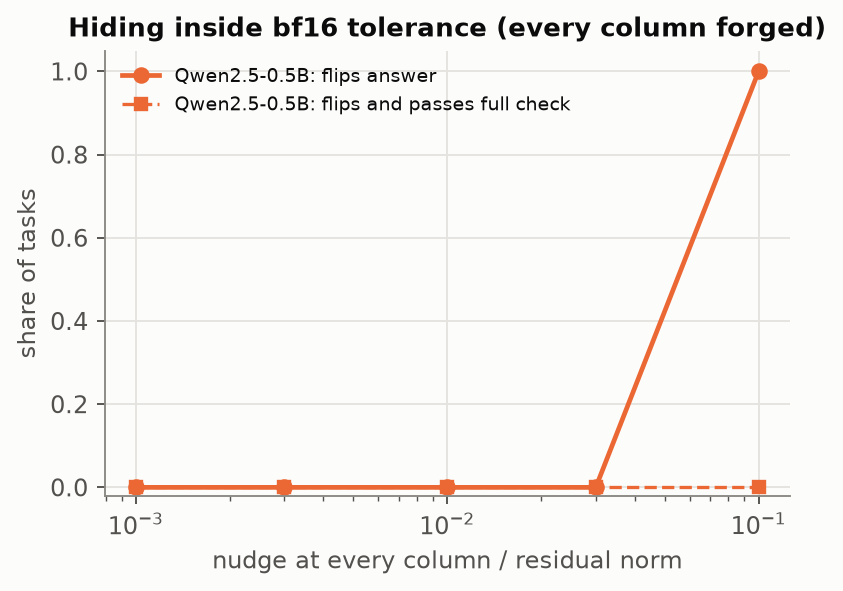
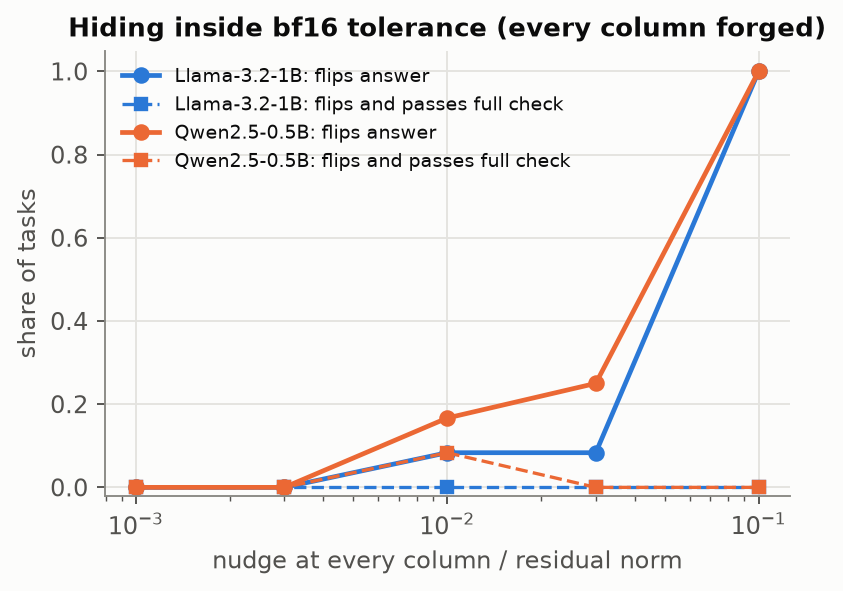
Regenerate figures, demo data and paper from complete results

Changed region(s): [[0.1234, 0.0914, 0.6785, 0.3046], [0.3393, 0.1523, 0.8944, 0.8528]]

diff --git a/docs/paper.html b/docs/paper.html
@@ -1,0 +1,91 @@
+<!doctype html><html lang="en"><head><meta charset="utf-8"><meta name="viewport" content="width=device-width,initial-scale=1">
+<title>kv-notary: Checking KV Caches Against Their Tokens</title><style>
+body{font:15.5px/1.6 Georgia,'Times New Roman',serif;color:#1d1d1b;background:#fff;max-width:820px;margin:40px auto;padding:0 24px}
+h1{font:600 30px/1.2 system-ui,sans-serif;margin:0 0 6px}h2{font:600 20px system-ui,sans-serif;margin:34px 0 8px}
+h3{font:600 16px system-ui,sans-serif;margin:22px 0 6px}.sub{color:#555;font:14px system-ui,sans-serif;margin-bottom:22px}
+.abs{background:#f6f6f3;border-left:3px solid #2a78d6;padding:12px 16px;margin:18px 0}
+table{border-collapse:collapse;margin:14px 0 4px;font:13px system-ui,sans-serif;width:100%}
+th,td{border-bottom:1px solid #ddd;padding:4px 6px;text-align:left;vertical-align:top}th{border-bottom:2px solid #999}
+table.small{font-size:11.5px}.cap{font:12.5px system-ui,sans-serif;color:#555;margin-top:2px}
+figure{margin:18px 0}figure img{width:100%}figcaption{font:12.5px system-ui,sans-serif;color:#555}
+code{font-size:13px}.refs{font-size:13.5px}
+@media print{body{margin:0 auto;font-size:11pt}h2{break-after:avoid}figure,table{break-inside:avoid}}
+</style></head><body>
+<h1>Can you trust a KV cache you did not compute?</h1>
+<div class="sub">kv-notary · forging, and auditing, transformer KV caches column by column · <a href="https://github.com/PS12007/kv-notary">github.com/PS12007/kv-notary</a> · <a href="index.html">interactive demo</a></div>
+<div class='abs'><b>Abstract.</b> Disaggregated serving, prefix caches and KV stores pass a transformer's KV cache between machines, and the reader trusts it. We show that this trust is easy to abuse and cheap to check. Forging a single column of the cache (one token's keys and values, computed from a nudged residual stream) makes Llama-3.2-1B give the attacker's answer in 86% of attempts, from any layer and almost any token position. Yet every cache is a deterministic function of its tokens, and each column can be recomputed against the claimed cache for the cost of one token. In 99.8% of successful forgeries this flags exactly the forged column, and no honest cache was flagged. Choosing columns by the question's value-weighted attention catches 91% of forgeries with 8 columns (Qwen2.5-0.5B: 77%), against 15% for 64 random columns, and 100% with 32 columns at 2044 tokens. Attacks that try to hide inside the bf16 tolerance either fail or leave several columns failing, where random audits find them. A white-box attacker that knows the scoring rule can push its column down the ranking, so against adaptive adversaries only random audits give guarantees. Code, data and an interactive demo are public.</div>
+<!-- included into paper.html by experiments/paper.py -->
+<h2>1. Introduction</h2>
+<p>A transformer's KV cache is a deterministic function of its tokens. Serving systems have started to treat it as data that moves. Disaggregated inference runs prefill on one pool of GPUs and ships the cache to another for decoding (DistServe, Splitwise, Mooncake). Prefix caches reuse one document's cache across users and requests (vLLM, SGLang). Cache stores such as LMCache persist caches to CPU memory, disk and remote storage, and resume sessions from them. In every one of these paths, the node that finally reads the cache trusts that it encodes the tokens it arrived with. Nothing checks.</p>
+<p>That trust is worth testing, because the cache is far larger than the text and far less legible. A 450-token memo is 14&nbsp;MiB of bf16 keys and values in Llama-3.2-1B. Any of it can be changed without changing a single token of the prompt, and no log, prompt filter or human reviewer would see the difference. This report asks three questions on two small open models:</p>
+<ol>
+<li><b>How little of a cache must change to change an answer?</b> One column, at any depth (§4).</li>
+<li><b>Can the reader check a cache without recomputing it?</b> Yes. Recomputing a column against the <i>claimed</i> cache costs one token through the model, and a cache is honest if and only if every column passes (§3). Auditing the columns the question reads most catches non-adaptive forgeries with a few columns (§5).</li>
+<li><b>Where does the check break?</b> Against a white-box attacker who knows how audit columns are chosen (§6). It does not break inside the bf16 tolerance (§7).</li>
+</ol>
+
+<h2>2. Threat model</h2>
+<p>A <b>trusted node</b> holds the token ids of a document (a few bytes per token) and receives the document's KV cache from somewhere else. It then appends a question, decodes an answer, and returns it. The adversary controls the cache, and nothing else. We consider four adversaries:</p>
+<table>
+<tr><th>Adversary</th><th>Realistic as</th><th>What it can do</th></tr>
+<tr><td>Bit flip</td><td>silent data corruption in HBM, host RAM, NVMe, network</td><td>one random bit of one bf16 element</td></tr>
+<tr><td>In-place edit</td><td>write access to a cache store or the wire</td><td>arbitrary changes to stored K/V; nothing downstream is recomputed</td></tr>
+<tr><td>Consistent forger</td><td>a compromised or dishonest prefill worker</td><td>perturbs the residual stream of chosen columns <i>during</i> prefill and computes everything else honestly</td></tr>
+<tr><td>Adaptive forger</td><td>the same, white-box, knows the audit rule</td><td>also optimises to keep its columns out of the audit</td></tr>
+</table>
+<p>The attacker's goal is targeted: make the trusted node answer a specific wrong value (another city, project, colour or 4-digit code) for a question it anticipates. Cryptographic MACs on caches stop the first two adversaries and do nothing about the last two, because a dishonest prefill worker would sign whatever it computed.</p>
+
+<h2>3. Method</h2>
+<h3>3.1 Column recomputation</h3>
+<p>Write the claimed cache as columns <i>c</i><sub>0</sub>…<i>c</i><sub>T−1</sub>, where column <i>p</i> holds the post-RoPE keys and the values of token <i>p</i> at every layer. In an honest cache, <i>c<sub>p</sub></i> = <i>f</i>(<i>x<sub>p</sub></i>, <i>c</i><sub>&lt;p</sub>): the model's computation for token <i>x<sub>p</sub></i> at position <i>p</i>, attending to the earlier columns. The verifier evaluates exactly this <i>f</i>, using the claimed <i>c</i><sub>&lt;p</sub> as context. At layer <i>l</i>, the recomputed query of token <i>p</i> attends to the claimed keys and values of positions &lt;&nbsp;<i>p</i> plus its own recomputed entry, so the cost is one token through the model plus one attention read of the cache. Any set of columns batches into one pass.</p>
+<p><b>Soundness by induction.</b> If every column passes, then <i>c</i><sub>0</sub> is honest (it depends on <i>x</i><sub>0</sub> alone). If <i>c</i><sub>&lt;p</sub> is honest and <i>c<sub>p</sub></i> = <i>f</i>(<i>x<sub>p</sub></i>, <i>c</i><sub>&lt;p</sub>), so is <i>c<sub>p</sub></i>. So every tampered cache contains at least one failing column. The audit's job is to find one.</p>
+<p><b>Two kinds of tampering look different.</b> An in-place edit to column <i>j</i> at layer <i>l</i> also makes every later column that reads <i>j</i> above layer <i>l</i> disagree with its own recomputation, so it fails in many places. A consistent forger recomputes everything downstream of its change, so <i>only the forged columns fail</i>. That makes it the hard case.</p>
+<h3>3.2 Tolerance</h3>
+<p>In fp32, recomputed columns match the prefill to ~10<sup>−6</sup> relative error. In bf16 they do not: the prefill's batched kernels and the verifier's single-column computation round differently. The verifier therefore compares the per-layer relative error ‖<i>ĉ</i> − <i>c</i>‖/‖<i>c</i>‖ (K and V, all heads) to a threshold τ<sub>l</sub>, set to 1.5× the largest honest error seen on 20 calibration documents. A column's score is max<sub>l</sub> error<sub>l</sub>/τ<sub>l</sub>, and it fails above 1.</p>
+<h3>3.3 Choosing columns</h3>
+<p>Uniform sampling of <i>k</i> columns finds a single forged column with probability <i>k/T</i>. The verifier can do better because a forged column only matters if the question <i>reads</i> it, and the trusted node computes those attention weights anyway while it processes the question. Pre-norm transformers produce value vectors of bounded norm, so <i>a<sub>l,h,r,j</sub></i>·‖<i>v<sub>l,j</sub></i>‖ bounds what column <i>j</i> can add to reader <i>r</i> through head <i>h</i> at layer <i>l</i>. We score each column by this value-weighted attention, take the max over heads and sum over the reader tokens (question plus the decoded answer), and then either average over layers (<i>mean</i>) or normalise per layer and take the max (<i>layermax</i>). The audit always checks the first four columns (attention sinks), then the top-ranked columns, then optionally some uniformly random ones. We also test a gradient score, |∂NLL/∂<i>K</i>·<i>K</i>| + |∂NLL/∂<i>V</i>·<i>V</i>|, and an ensemble that takes the union of the top columns under all three.</p>
+<h3>3.4 Attacks</h3>
+<p>All attacks optimise the teacher-forced likelihood of the target answer with Adam, through the trusted node's question pass. The <b>forger</b> adds a vector δ to the residual stream entering layer <i>l</i> at the chosen positions, with ‖δ‖ ≤ β‖<i>h</i>‖, and backpropagates through the entire prefill, so the forged cache is consistent by construction. The <b>editor</b> optimises additive changes to stored K/V directly. The <b>adaptive forger</b> also pays a hinge penalty whenever a forged column's score is above 0.7× the score of the <i>k</i>-th ranked other column, computed with a differentiable copy of the audit score on the forged cache.</p>
+<h3>3.5 Setup</h3>
+<p>Models: Llama-3.2-1B-Instruct (16 layers, 8 KV heads) and Qwen2.5-0.5B-Instruct (24 layers, 2 KV heads), bf16, run by our own ~280-line implementation whose logits match <code>transformers</code> to 10<sup>−4</sup> in fp32 (tested in CI on random tiny models). Documents: generated memos of about 450 tokens with ten facts in filler prose. We also use long versions with the facts scattered through Moby-Dick (about 2K tokens). We keep only tasks the model answers correctly from an honest cache, and set the target to the honest output with the value swapped. One RTX 5060 Laptop GPU (8 GB).</p>
+
+<h2>4. One column is enough</h2><p>We forge one column, at one of five depths and three kinds of position: the last token of the fact's value, a uniformly random non-sink token, and the last document token. The forger may change the residual stream there by up to β times its norm. It then runs the rest of the prefill honestly. Over 24 memos per model (mean length 446 and 429 tokens) and 576 attacks per model, 446 of the Llama forgeries and 434 of the Qwen forgeries made the trusted node answer exactly the attacker's value. At β&nbsp;=&nbsp;1, the success rate across all layers and positions is 86% for Llama and 80% for Qwen. Position barely matters: a forged column on an unrelated token, far from the fact, works about as well as one on the fact itself. The attack does not need to edit the fact. It needs one place the question reads.</p><p>The full column check confirms the structure from §3.1. In 99.8% (Llama) and 98.6% (Qwen) of successful forgeries, the forged column is the <i>only</i> column that fails. The few exceptions are forgeries that also change later columns enough to show. No honest cache failed a single column: the largest honest score over all 48 evaluation memos was 0.79 for Llama and 0.98 for Qwen, against a threshold of 1. These memos are disjoint from the 20 calibration memos.</p><figure><img src="figures/forge_success.png" alt="forge_success"><figcaption>Figure 1. Success rate of single-column forgeries (β = 1) by layer and position kind, with 95% Wilson intervals.</figcaption></figure><figure><img src="figures/forge_budget.png" alt="forge_budget"><figcaption>Figure 2. Success against the perturbation budget β at the middle layer.</figcaption></figure><table class=""><tr><th>model</th><th>layer</th><th>β</th><th>success</th><th>value pos.</th><th>random pos.</th><th>last pos.</th><th>only forged col. fails</th></tr><tr><td>Llama-3.2-1B</td><td>1</td><td>1</td><td>60/72</td><td>96%</td><td>75%</td><td>79%</td><td>98%</td></tr><tr><td>Llama-3.2-1B</td><td>4</td><td>1</td><td>60/72</td><td>92%</td><td>88%</td><td>71%</td><td>100%</td></tr><tr><td>Llama-3.2-1B</td><td>8</td><td>0.25</td><td>12/72</td><td>29%</td><td>8%</td><td>12%</td><td>100%</td></tr><tr><td>Llama-3.2-1B</td><td>8</td><td>0.5</td><td>55/72</td><td>71%</td><td>71%</td><td>88%</td><td>100%</td></tr><tr><td>Llama-3.2-1B</td><td>8</td><td>1</td><td>69/72</td><td>96%</td><td>96%</td><td>96%</td><td>100%</td></tr><tr><td>Llama-3.2-1B</td><td>8</td><td>2</td><td>70/72</td><td>92%</td><td>100%</td><td>100%</td><td>100%</td></tr><tr><td>Llama-3.2-1B</td><td>12</td><td>1</td><td>66/72</td><td>83%</td><td>92%</td><td>100%</td><td>100%</td></tr><tr><td>Llama-3.2-1B</td><td>15</td><td>1</td><td>54/72</td><td>50%</td><td>83%</td><td>92%</td><td>100%</td></tr><tr><td>Qwen2.5-0.5B</td><td>1</td><td>1</td><td>47/72</td><td>92%</td><td>58%</td><td>46%</td><td>96%</td></tr><tr><td>Qwen2.5-0.5B</td><td>6</td><td>1</td><td>66/72</td><td>100%</td><td>83%</td><td>92%</td><td>95%</td></tr><tr><td>Qwen2.5-0.5B</td><td>12</td><td>0.25</td><td>18/72</td><td>25%</td><td>21%</td><td>29%</td><td>100%</td></tr><tr><td>Qwen2.5-0.5B</td><td>12</td><td>0.5</td><td>58/72</td><td>83%</td><td>67%</td><td>92%</td><td>100%</td></tr><tr><td>Qwen2.5-0.5B</td><td>12</td><td>1</td><td>69/72</td><td>96%</td><td>96%</td><td>96%</td><td>100%</td></tr><tr><td>Qwen2.5-0.5B</td><td>12</td><td>2</td><td>70/72</td><td>100%</td><td>96%</td><td>96%</td><td>99%</td></tr><tr><td>Qwen2.5-0.5B</td><td>18</td><td>1</td><td>66/72</td><td>83%</td><td>92%</td><td>100%</td><td>100%</td></tr><tr><td>Qwen2.5-0.5B</td><td>23</td><td>1</td><td>40/72</td><td>71%</td><td>58%</td><td>38%</td><td>100%</td></tr></table><p class='cap'>Table 1. Single-column forgeries. 24 tasks × 3 positions per row.</p>
+<h2>5. Auditing where the question reads</h2><p>A full check is a second prefill, so the practical question is how few columns an audit needs. Uniform sampling of <i>k</i> columns catches one bad column with probability <i>k/T</i>. The data match: 64 random columns catch 15% of Llama forgeries and 15% of Qwen forgeries. Checking the 4 sinks plus the 4 columns with the highest value-weighted attention (<i>k</i>&nbsp;=&nbsp;8 in total) catches 91% and 77%. With <i>k</i>&nbsp;=&nbsp;32 it catches 98% and 95%. The median forged column is the 5th most-read column, counting the four sinks: to change the answer, the forged column has to be read, and reading is visible. In 79% of Llama forgeries and 66% of Qwen forgeries, the single most-read non-sink column <i>is</i> the forged one.</p><p>Forgeries on the last document token are the easiest to find (top-8 catches 97% on Llama). The last token is read heavily by the question in any case. Forgeries on the fact's own value token are the hardest (84%), because the honest value token is already among the most-read, so a forgery there competes with the real signal. Qwen is harder throughout. With only 2 KV heads, its attention spreads over more columns, so the forged one is less of an outlier.</p><figure><img src="figures/detection.png" alt="detection"><figcaption>Figure 3. Probability that an audit of k columns contains the forged column. Exact hypergeometric probabilities for random plans, averaged over successful forgeries.</figcaption></figure><table class=""><tr><th>model</th><th>forgeries</th><th>top-8</th><th>top-16</th><th>top-32</th><th>top-8 + 8 random</th><th>random 4</th><th>random 16</th><th>random 64</th></tr><tr><td>Llama-3.2-1B</td><td>446</td><td>91%</td><td>96%</td><td>98%</td><td>91%</td><td>0.9%</td><td>3.7%</td><td>14.5%</td></tr><tr><td>Qwen2.5-0.5B</td><td>434</td><td>77%</td><td>86%</td><td>95%</td><td>78%</td><td>0.9%</td><td>3.8%</td><td>15.1%</td></tr></table><p class='cap'>Table 2. Detection of successful single-column forgeries. Top-k includes the 4 sink columns.</p><h3>5.1 Long documents</h3><p>The ratio matters more as documents grow. With the facts scattered through Moby-Dick (Llama, layers L/4, L/2, 3L/4), a 2044-token cache leaves uniform 64-column audits at 3.2%, while top-32 still catches 100%. The forged column's median rank stays small as <i>T</i> grows, so the audit cost in columns stays flat while the uniform cost grows linearly.</p><table class=""><tr><th>T (tokens)</th><th>success</th><th>only forged fails</th><th>top-8</th><th>top-16</th><th>top-32</th><th>random 64</th><th>median rank</th></tr><tr><td>2044</td><td>97/108</td><td>99.0%</td><td>96%</td><td>100%</td><td>100%</td><td>3.2%</td><td>5</td></tr></table><p class='cap'>Table 3. Llama-3.2-1B on long documents.</p>
+<h2>6. Adaptive attackers</h2><p>The audit's strength in §5 rests on a forged column having to be read. An attacker who knows the scoring rule can try to be read <i>enough</i> without being read <i>most</i>. Our adaptive forger adds a hinge penalty that pushes each forged column's score below 0.7× the score of the <i>k</i>-th ranked other column. The score is computed on its own forged cache with the trusted node's question, which we let the attacker know in advance. It attacks one of two scores: <i>mean</i> (the default in §5) or <i>layermax</i> (per-layer normalised, max over layers). It can also spread the edit over <i>m</i> random columns.</p><h3>Llama-3.2-1B</h3><table class="small"><tr><th>attacker</th><th>success</th><th>rank (mean)</th><th>rank (layermax)</th><th>rank (grad)</th><th>top-32 mean</th><th>top-32 layermax</th><th>ensemble-16</th><th>top-32 + 32 random</th><th>random 64</th><th>direct</th></tr><tr><td>no hiding (λ = 0)</td><td>16/16</td><td>0</td><td>0</td><td>0</td><td>100%</td><td>100%</td><td>100%</td><td>100%</td><td>14%</td><td>100%</td></tr><tr><td>m = 1, hide below top-4, vs. mean</td><td>14/16</td><td>10</td><td>0</td><td>22</td><td>100%</td><td>100%</td><td>100%</td><td>100%</td><td>15%</td><td>71%</td></tr><tr><td>m = 1, hide below top-28, vs. mean</td><td>10/16</td><td>50</td><td>11</td><td>49</td><td>0%</td><td>100%</td><td>70%</td><td>8%</td><td>15%</td><td>60%</td></tr><tr><td>m = 1, hide below top-4, vs. layermax</td><td>12/16</td><td>38</td><td>10</td><td>54</td><td>42%</td><td>100%</td><td>92%</td><td>47%</td><td>15%</td><td>83%</td></tr><tr><td>m = 1, hide below top-12, vs. layermax</td><td>9/16</td><td>20</td><td>23</td><td>38</td><td>67%</td><td>78%</td><td>56%</td><td>69%</td><td>16%</td><td>78%</td></tr><tr><td>m = 1, hide below top-28, vs. layermax</td><td>8/16</td><td>50</td><td>35</td><td>47</td><td>25%</td><td>38%</td><td>38%</td><td>32%</td><td>16%</td><td>75%</td></tr><tr><td>m = 1, hide below top-60, vs. layermax</td><td>6/16</td><td>2</td><td>8</td><td>26</td><td>83%</td><td>83%</td><td>83%</td><td>85%</td><td>14%</td><td>100%</td></tr><tr><td>m = 4, hide below top-12, vs. layermax</td><td>13/16</td><td>4</td><td>7</td><td>14</td><td>77%</td><td>100%</td><td>85%</td><td>84%</td><td>47%</td><td>92%</td></tr><tr><td>m = 16, hide below top-12, vs. layermax</td><td>13/16</td><td>0</td><td>0</td><td>1</td><td>100%</td><td>100%</td><td>100%</td><td>100%</td><td>92%</td><td>92%</td></tr><tr><td>m = 64, hide below top-12, vs. layermax</td><td>15/16</td><td>0</td><td>0</td><td>0</td><td>100%</td><td>100%</td><td>100%</td><td>100%</td><td>100%</td><td>100%</td></tr></table><h3>Qwen2.5-0.5B</h3><table class="small"><tr><th>attacker</th><th>success</th><th>rank (mean)</th><th>rank (layermax)</th><th>rank (grad)</th><th>top-32 mean</th><th>top-32 layermax</th><th>ensemble-16</th><th>top-32 + 32 random</th><th>random 64</th><th>direct</th></tr><tr><td>no hiding (λ = 0)</td><td>16/16</td><td>0</td><td>0</td><td>7</td><td>100%</td><td>100%</td><td>100%</td><td>100%</td><td>18%</td><td>100%</td></tr><tr><td>m = 1, hide below top-4, vs. mean</td><td>15/16</td><td>12</td><td>0</td><td>23</td><td>87%</td><td>87%</td><td>87%</td><td>88%</td><td>16%</td><td>73%</td></tr><tr><td>m = 1, hide below top-28, vs. mean</td><td>12/16</td><td>49</td><td>1</td><td>100</td><td>8%</td><td>92%</td><td>75%</td><td>17%</td><td>17%</td><td>50%</td></tr><tr><td>m = 1, hide below top-4, vs. layermax</td><td>15/16</td><td>24</td><td>11</td><td>44</td><td>53%</td><td>67%</td><td>67%</td><td>58%</td><td>20%</td><td>40%</td></tr><tr><td>m = 1, hide below top-12, vs. layermax</td><td>11/16</td><td>24</td><td>21</td><td>56</td><td>55%</td><td>82%</td><td>45%</td><td>60%</td><td>17%</td><td>73%</td></tr><tr><td>m = 1, hide below top-28, vs. layermax</td><td>9/16</td><td>87</td><td>51</td><td>110</td><td>33%</td><td>0%</td><td>0%</td><td>39%</td><td>15%</td><td>56%</td></tr><tr><td>m = 1, hide below top-60, vs. layermax</td><td>6/16</td><td>46</td><td>90</td><td>72</td><td>33%</td><td>17%</td><td>33%</td><td>40%</td><td>17%</td><td>33%</td></tr><tr><td>m = 4, hide below top-12, vs. layermax</td><td>13/16</td><td>10</td><td>14</td><td>28</td><td>77%</td><td>92%</td><td>77%</td><td>84%</td><td>51%</td><td>92%</td></tr><tr><td>m = 16, hide below top-12, vs. layermax</td><td>14/16</td><td>6</td><td>12</td><td>11</td><td>100%</td><td>100%</td><td>100%</td><td>100%</td><td>93%</td><td>100%</td></tr><tr><td>m = 64, hide below top-12, vs. layermax</td><td>14/16</td><td>0</td><td>0</td><td>1</td><td>100%</td><td>100%</td><td>100%</td><td>100%</td><td>100%</td><td>93%</td></tr></table><p class='cap'>Table 4. Adaptive forgeries at the middle layer, β = 1. Ranks are the median over successful attacks of the best-hidden forged column's rank among non-sink columns (0 = most read). Detection columns are the probability of catching it. Ensemble-16 is the union of the top 16 under all three scores, plus the sinks (≈ 30–45 columns). <i>Direct</i> is the fraction where putting the honest forged columns back restores the honest answer, so the effect does not run through other columns.</p><p><b>A single score can be gamed.</b> Without the penalty, the forged column is ranked 0 (median, among non-sink columns). An attacker hiding below the top 28 under the mean score still succeeds in 10/16 tasks and lands at rank 50, so top-32 under that score catches it 0% of the time. The same forgery is ranked 11 by layermax: the mean score is low because the column is read hard at a few layers, not lightly everywhere.</p><p><b>Gaming the stronger score works too.</b> Attacking layermax directly with hide-28, the forger succeeds in 8/16 tasks. Its column then ranks 35 under layermax, 50 under mean and 47 under the gradient score, and top-32 layermax catches 38%. The union of the top 16 under all three scores catches 38%, with about 32 columns. This is the honest result: an attacker that knows the score can lower it. A deterministic top-k audit is an arms race, not a guarantee.</p><p>Qwen2.5-0.5B is easier to game. The same attacker succeeds in 9/16 tasks, and top-32 layermax catches 0% of them, the ensemble 0%. Only the random columns still find it, at the k/T rate (15% for 64).</p><p><b>Spreading out costs the attacker detectability elsewhere.</b> With m&nbsp;=&nbsp;64 forged columns hidden from layermax top-12, it succeeds in 15/16 tasks, but each of those caches has 64 failing columns, so 64 random columns catch it 100% of the time. That is the case random draws are for. Mixing the two (top-32 + 32 random) covers both ends: 100% here.</p><p>So the deterministic part of an audit should be treated as a cheap filter for non-adaptive faults and attacks. Guarantees against an adaptive forger come only from the random part, at <i>k/T</i> per forged column, or from a full recompute of whatever the audit's budget cannot cover.</p><figure><img src="figures/adaptive.png" alt="adaptive"><figcaption>Figure 4. Adaptive attackers. Left: where the forged column lands in each ranking. Right: detection by audit plan.</figcaption></figure>
+<h2>7. Hiding inside the tolerance</h2><p>bf16 forces a tolerance, and a tolerance is room. We test two attackers that try to stay inside it. The <i>edit</i> attacker changes every stored entry at every layer in place, by at most ρ × the largest honest error. The <i>distributed forger</i> nudges the residual stream of every document column at the middle layer by a relative ε, then computes everything else honestly, so each column carries only its own small inconsistency.</p><table class="small"><tr><th>model</th><th>dtype</th><th>attack</th><th>ρ or ε</th><th>success</th><th>failing columns (mean)</th><th>fewest failing when it worked</th><th>median max score</th></tr><tr><td>Llama-3.2-1B</td><td>bf16</td><td>edit</td><td>0.1</td><td>0%</td><td>0 / 446</td><td>–</td><td>0.9</td></tr><tr><td>Llama-3.2-1B</td><td>bf16</td><td>edit</td><td>0.3</td><td>58%</td><td>278 / 446</td><td>131</td><td>2.9</td></tr><tr><td>Llama-3.2-1B</td><td>bf16</td><td>edit</td><td>1</td><td>100%</td><td>444 / 446</td><td>427</td><td>8.1</td></tr><tr><td>Llama-3.2-1B</td><td>bf16</td><td>forge</td><td>0.001</td><td>0%</td><td>0 / 446</td><td>–</td><td>0.7</td></tr><tr><td>Llama-3.2-1B</td><td>bf16</td><td>forge</td><td>0.003</td><td>0%</td><td>0 / 446</td><td>–</td><td>0.8</td></tr><tr><td>Llama-3.2-1B</td><td>bf16</td><td>forge</td><td>0.01</td><td>8%</td><td>9 / 446</td><td>8</td><td>1.7</td></tr><tr><td>Llama-3.2-1B</td><td>bf16</td><td>forge</td><td>0.03</td><td>8%</td><td>298 / 446</td><td>290</td><td>4.9</td></tr><tr><td>Llama-3.2-1B</td><td>bf16</td><td>forge</td><td>0.1</td><td>100%</td><td>442 / 446</td><td>425</td><td>10.3</td></tr><tr><td>Llama-3.2-1B</td><td>fp32</td><td>edit</td><td>0.1</td><td>0%</td><td>0 / 444</td><td>–</td><td>0.9</td></tr><tr><td>Llama-3.2-1B</td><td>fp32</td><td>edit</td><td>0.3</td><td>0%</td><td>73 / 444</td><td>–</td><td>2.1</td></tr><tr><td>Llama-3.2-1B</td><td>fp32</td><td>edit</td><td>1</td><td>0%</td><td>436 / 444</td><td>–</td><td>6.9</td></tr><tr><td>Llama-3.2-1B</td><td>fp32</td><td>forge</td><td>1e-05</td><td>0%</td><td>437 / 444</td><td>–</td><td>7.3</td></tr><tr><td>Llama-3.2-1B</td><td>fp32</td><td>forge</td><td>0.0001</td><td>0%</td><td>440 / 444</td><td>–</td><td>72.4</td></tr><tr><td>Llama-3.2-1B</td><td>fp32</td><td>forge</td><td>0.001</td><td>0%</td><td>440 / 444</td><td>–</td><td>731.9</td></tr><tr><td>Llama-3.2-1B</td><td>fp32</td><td>forge</td><td>0.01</td><td>12%</td><td>440 / 444</td><td>446</td><td>6669.5</td></tr><tr><td>Llama-3.2-1B</td><td>fp32</td><td>forge</td><td>0.1</td><td>100%</td><td>440 / 444</td><td>425</td><td>43598.8</td></tr><tr><td>Qwen2.5-0.5B</td><td>bf16</td><td>edit</td><td>0.1</td><td>8%</td><td>127 / 430</td><td>104</td><td>2.4</td></tr><tr><td>Qwen2.5-0.5B</td><td>bf16</td><td>edit</td><td>0.3</td><td>83%</td><td>426 / 430</td><td>408</td><td>7.0</td></tr><tr><td>Qwen2.5-0.5B</td><td>bf16</td><td>edit</td><td>1</td><td>100%</td><td>429 / 430</td><td>410</td><td>20.1</td></tr><tr><td>Qwen2.5-0.5B</td><td>bf16</td><td>forge</td><td>0.001</td><td>0%</td><td>0 / 430</td><td>–</td><td>0.7</td></tr><tr><td>Qwen2.5-0.5B</td><td>bf16</td><td>forge</td><td>0.003</td><td>0%</td><td>0 / 430</td><td>–</td><td>0.7</td></tr><tr><td>Qwen2.5-0.5B</td><td>bf16</td><td>forge</td><td>0.01</td><td>17%</td><td>1 / 430</td><td>0</td><td>1.1</td></tr><tr><td>Qwen2.5-0.5B</td><td>bf16</td><td>forge</td><td>0.03</td><td>25%</td><td>75 / 430</td><td>44</td><td>2.7</td></tr><tr><td>Qwen2.5-0.5B</td><td>bf16</td><td>forge</td><td>0.1</td><td>100%</td><td>426 / 430</td><td>407</td><td>6.9</td></tr></table><p class='cap'>Table 5. Attacks that try to stay inside the bf16 (or fp32) tolerance.</p><p>Neither attacker flips an answer with every column inside the tolerance. Llama-3.2-1B bf16: the quietest successful attack (forge, ε = 0.01) left 8 of 446 columns failing, which 16 random columns would catch with probability 25% and 64 with 69%; Llama-3.2-1B fp32: the quietest successful attack (forge, ε = 0.1) left 425 of 444 columns failing, which 16 random columns would catch with probability 100% and 64 with 100%; Qwen2.5-0.5B bf16: the quietest successful attack (forge, ε = 0.01) left 0 of 430 columns failing, which 16 random columns would catch with probability 0% and 64 with 0%. Below the tolerance (ρ = 0.1, ε ≤ 0.003 in bf16) nothing succeeded. The narrow band between is where the attacker does best, and the reason it is narrow is that §4 needed perturbations on the order of the residual norm, while the tolerance is a few percent of it. Spreading the change over 400 columns does not change that: attention averages the nudges, so effective spread attacks break many columns at once, which is exactly what random columns are good at. In fp32 the tolerance is ~10<sup>−6</sup> and every attack lit up almost every column.</p><figure><img src="figures/innoise.png" alt="innoise"><figcaption>Figure 5. In-tolerance attacks: success rate and the number of failing columns as the per-column budget grows.</figcaption></figure>
+<h2>8. Naive tampering and corruption</h2><p><b>In-place edits.</b> An editor that optimises stored K/V directly at one column, without recomputing anything later, makes every later column that reads the edited one disagree with its own recomputation. That holds at every layer except the last, which no later layer reads. So these edits are loud, and even a single random column usually catches them.</p><table class="small"><tr><th>model</th><th>edited layer</th><th>success</th><th>failing columns (median)</th><th>of later columns</th><th>random 1</th><th>random 4</th></tr><tr><td>Llama-3.2-1B</td><td>0</td><td>67%</td><td>216</td><td>100%</td><td>50%</td><td>84%</td></tr><tr><td>Llama-3.2-1B</td><td>4</td><td>100%</td><td>216</td><td>100%</td><td>50%</td><td>84%</td></tr><tr><td>Llama-3.2-1B</td><td>8</td><td>100%</td><td>216</td><td>100%</td><td>48%</td><td>84%</td></tr><tr><td>Llama-3.2-1B</td><td>12</td><td>96%</td><td>216</td><td>100%</td><td>49%</td><td>84%</td></tr><tr><td>Llama-3.2-1B</td><td>15</td><td>100%</td><td>1</td><td>0%</td><td>0%</td><td>1%</td></tr><tr><td>Qwen2.5-0.5B</td><td>0</td><td>0%</td><td>212</td><td>100%</td><td>51%</td><td>84%</td></tr><tr><td>Qwen2.5-0.5B</td><td>6</td><td>50%</td><td>212</td><td>100%</td><td>51%</td><td>84%</td></tr><tr><td>Qwen2.5-0.5B</td><td>12</td><td>83%</td><td>212</td><td>100%</td><td>51%</td><td>84%</td></tr><tr><td>Qwen2.5-0.5B</td><td>18</td><td>21%</td><td>186</td><td>91%</td><td>41%</td><td>77%</td></tr><tr><td>Qwen2.5-0.5B</td><td>23</td><td>8%</td><td>1</td><td>0%</td><td>0%</td><td>1%</td></tr></table><p class='cap'>Table 6. In-place edits of one column (24 per row: 12 tasks × 2 positions).</p><p><b>Bit flips.</b> We flip 2304 random bits per model, uniformly over element, layer, head, position and bit. For Llama, 4.9% change the decoded tokens and 3.7% make the answer wrong. Nearly all the damage comes from bit 14, the top exponent bit, which turns a value of magnitude ~1 into one of ~10<sup>38</sup>. A range check (|x| above the largest honest magnitude at that layer) catches 100% of the harmful flips at zero cost. The full column check flags 28% of all flips, including harmless ones. Hardware faults are therefore the cheap case: a range check plus a small random audit covers them.</p><table class="small"><tr><th>model</th><th>bit</th><th>flips</th><th>output changed</th><th>answer wrong</th><th>check flags it</th><th>range check fires</th></tr><tr><td>Llama-3.2-1B</td><td>15 (sign)</td><td>146</td><td>0%</td><td>0%</td><td>58%</td><td>0%</td></tr><tr><td>Llama-3.2-1B</td><td>14 (exp. MSB)</td><td>132</td><td>64%</td><td>61%</td><td>96%</td><td>79%</td></tr><tr><td>Llama-3.2-1B</td><td>13 (exp.)</td><td>147</td><td>2%</td><td>1%</td><td>36%</td><td>14%</td></tr><tr><td>Llama-3.2-1B</td><td>7 (exp. LSB)</td><td>158</td><td>0%</td><td>0%</td><td>27%</td><td>1%</td></tr><tr><td>Llama-3.2-1B</td><td>0 (mantissa LSB)</td><td>140</td><td>0%</td><td>0%</td><td>0%</td><td>0%</td></tr><tr><td>Qwen2.5-0.5B</td><td>15 (sign)</td><td>146</td><td>0%</td><td>0%</td><td>75%</td><td>0%</td></tr><tr><td>Qwen2.5-0.5B</td><td>14 (exp. MSB)</td><td>132</td><td>59%</td><td>56%</td><td>98%</td><td>75%</td></tr><tr><td>Qwen2.5-0.5B</td><td>13 (exp.)</td><td>147</td><td>1%</td><td>0%</td><td>42%</td><td>14%</td></tr><tr><td>Qwen2.5-0.5B</td><td>7 (exp. LSB)</td><td>158</td><td>0%</td><td>0%</td><td>37%</td><td>1%</td></tr><tr><td>Qwen2.5-0.5B</td><td>0 (mantissa LSB)</td><td>140</td><td>0%</td><td>0%</td><td>7%</td><td>0%</td></tr></table><p class='cap'>Table 7. Random single-bit flips by bit position (selected bits).</p><figure><img src="figures/corrupt.png" alt="corrupt"><figcaption>Figure 6. Left: columns that fail after an in-place edit, by edited layer. Right: effect of a single bit flip by bit position.</figcaption></figure>
+<h2>9. Cost</h2><p>On NVIDIA GeForce RTX 5060 Laptop GPU, Llama-3.2-1B, bf16. The influence pass reads the cache once with the question tokens, which the trusted node does anyway to answer, so in a fused implementation it would be nearly free. Here we time it separately. An audit of 16 columns plus the influence pass costs 101.8% of a prefill at 512 tokens and 6.0% at 16384 tokens. The audit has a floor of about 30 ms: our unfused PyTorch code launches dozens of small kernels per layer, so on short documents it costs as much as a prefill. Above that floor, the prefill grows quadratically in T while the audit is a fixed number of tokens attending to T columns, so the gap widens with length. Our implementation is plain PyTorch with explicit attention for the audited rows. The prefill uses SDPA.</p><table class="small"><tr><th>T</th><th>KV (MiB)</th><th>prefill (ms)</th><th>influence (ms)</th><th>8 cols (ms)</th><th>16 cols (ms)</th><th>64 cols (ms)</th><th>full check (ms)</th><th>influence + 16 / prefill</th></tr><tr><td>512</td><td>16</td><td>62</td><td>31.7</td><td>31.2</td><td>31.6</td><td>35.4</td><td>69</td><td>101.8%</td></tr><tr><td>1024</td><td>32</td><td>164</td><td>41.1</td><td>40.9</td><td>39.5</td><td>39.8</td><td>194</td><td>49.1%</td></tr><tr><td>2048</td><td>64</td><td>178</td><td>30.7</td><td>30.2</td><td>31.8</td><td>30.1</td><td>663</td><td>35.2%</td></tr><tr><td>4096</td><td>128</td><td>420</td><td>36.4</td><td>32.6</td><td>36.3</td><td>47.7</td><td>2105</td><td>17.3%</td></tr><tr><td>8192</td><td>256</td><td>1007</td><td>61.2</td><td>29.5</td><td>30.6</td><td>70.9</td><td>–</td><td>9.1%</td></tr><tr><td>16384</td><td>512</td><td>2572</td><td>104.7</td><td>35.7</td><td>50.3</td><td>127.6</td><td>–</td><td>6.0%</td></tr></table><p class='cap'>Table 8. Median wall-clock time of 5 runs.</p><figure><img src="figures/cost.png" alt="cost"><figcaption>Figure 7. Time for prefill, a full check, and audits of 16 and 64 columns, by document length.</figcaption></figure>
+
+<h2>10. Related work</h2>
+<p><b>Moving KV caches.</b> Disaggregated serving separates prefill from decode and transfers the cache between them (DistServe, Zhong et al. 2024; Splitwise, Patel et al. 2024; Mooncake, Qin et al. 2024). Prefix caching reuses caches across requests (vLLM's automatic prefix caching, Kwon et al. 2023; SGLang's RadixAttention, Zheng et al. 2024). LMCache and CacheGen store, compress and stream caches across tiers and machines (Liu et al. 2024). CacheBlend reuses non-prefix caches and recomputes a selected subset of tokens to repair cross-attention (Yao et al. 2024). Its selective-recompute step is close in mechanics to our column check, but it is used for quality, not integrity. None of these systems verifies a received cache against its tokens.</p>
+<p><b>Attacks on caches.</b> Prior work has studied KV caches as a side channel: prompts leak through the timing of shared prefix caches (Song et al. 2024; Wu et al. 2025). Fault-injection work on LLMs (bit flips in weights, e.g. rowhammer-style attacks) targets parameters, not activations. We look at integrity rather than confidentiality, at the cache rather than the weights, and at a defence that needs no trust in the producer.</p>
+<p><b>Verifiable inference.</b> Zero-knowledge and interactive proofs for neural network inference (e.g. zkLLM, Sun et al. 2024) give cryptographic soundness at a large prover cost. Spot-checking and replication schemes for untrusted compute (e.g. TOPLOC, Ong et al. 2025, which hashes activations to detect model or precision swaps) trade guarantees for cost. Our check sits at the cheap end: it uses the structure of autoregressive caches (each column is a one-token function of its prefix) to make spot checks exact up to floating-point noise, and attention to choose where to check.</p>
+
+
+<h2>11. Limitations</h2>
+<ul>
+<li><b>Scale.</b> Two small models (0.5B and 1.1B parameters), memo-style factual QA with one-token-ish answers, and documents up to ~6K tokens. Larger models have more layers and heads, so influence may concentrate differently.</li>
+<li><b>Known question.</b> The attacker optimises for a question it anticipates, and our audit reads the influence of the question actually asked. An attacker that has to work across many questions has a harder job, and an audit across many questions has more readers. We did not measure either.</li>
+<li><b>Determinism.</b> The tolerance τ is calibrated on our own kernels. A real deployment with heterogeneous prefill and decode hardware would need calibration across kernel pairs, and τ would grow.</li>
+<li><b>Adaptive attacker.</b> Our adaptive forger is white-box but simple: one hinge loss and 100 Adam steps. Stronger optimisers will hide better. §6 should be read as a lower bound on what an adaptive attacker can do.</li>
+<li><b>Not a MAC.</b> The check proves that a cache is consistent with its tokens and weights. It says nothing about whether the tokens themselves are the right ones. That is the ordinary job of authenticating the prompt.</li>
+</ul>
+<h2>12. Conclusion</h2>
+<p>A KV cache can be checked against its tokens column by column, for the price of a few tokens. Every forgery in our experiments fails at the column where it was made, and honest caches pass. Where to check is the hard part. Against faults and non-adaptive tampering, the columns the question reads most are where the problem is: a few columns catch most single-column forgeries, at any document length. Against a white-box attacker that knows the rule, only random columns and full recompute give guarantees. That is a real trade-off, and serving systems that move caches between machines can now make it with numbers.</p>
+<h2>References</h2>
+<ol class="refs">
+<li>Zhong et al. DistServe: Disaggregating Prefill and Decoding for Goodput-optimized LLM Serving. OSDI 2024.</li>
+<li>Patel et al. Splitwise: Efficient Generative LLM Inference Using Phase Splitting. ISCA 2024.</li>
+<li>Qin et al. Mooncake: A KVCache-centric Disaggregated Architecture for LLM Serving. 2024.</li>
+<li>Kwon et al. Efficient Memory Management for Large Language Model Serving with PagedAttention. SOSP 2023.</li>
+<li>Zheng et al. SGLang: Efficient Execution of Structured Language Model Programs. 2024.</li>
+<li>Liu et al. CacheGen: KV Cache Compression and Streaming for Fast LLM Serving. SIGCOMM 2024. (LMCache)</li>
+<li>Yao et al. CacheBlend: Fast LLM Serving for RAG with Cached Knowledge Fusion. 2024.</li>
+<li>Sun et al. zkLLM: Zero Knowledge Proofs for Large Language Models. CCS 2024.</li>
+<li>Ong et al. TOPLOC: A Locality Sensitive Hashing Scheme for Trustless Verifiable Inference. 2025.</li>
+<li>Song et al. The Early Bird Catches the Leak: Unveiling Timing Side Channels in LLM Serving Systems. 2024.</li>
+<li>Wu et al. I Know What You Asked: Prompt Leakage via KV-Cache Sharing in Multi-Tenant LLM Serving. NDSS 2025.</li>
+<li>Xiao et al. Efficient Streaming Language Models with Attention Sinks. ICLR 2024.</li>
+</ol>
+
+</body></html>
